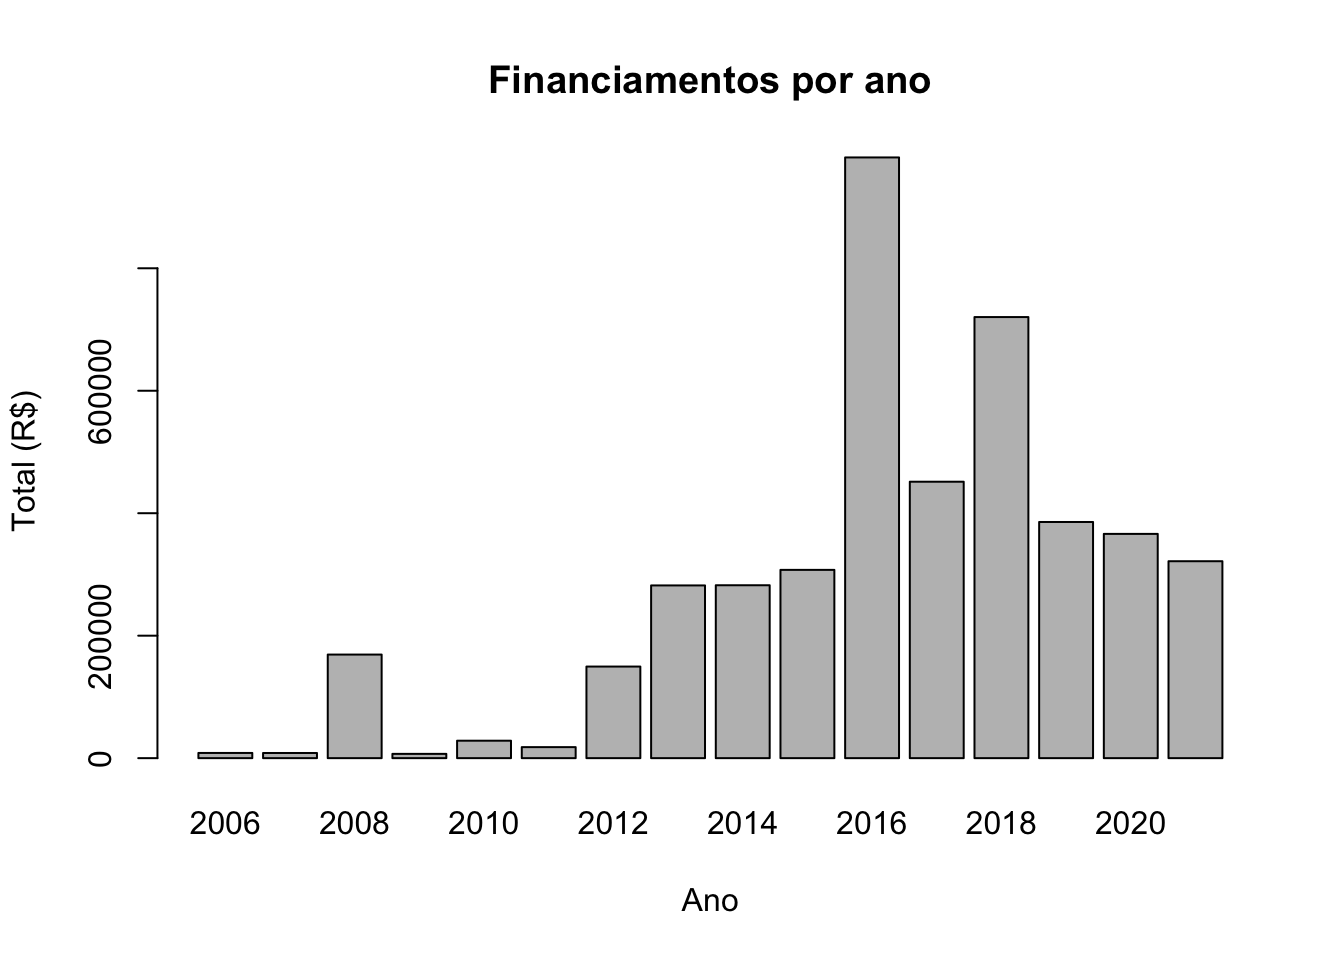
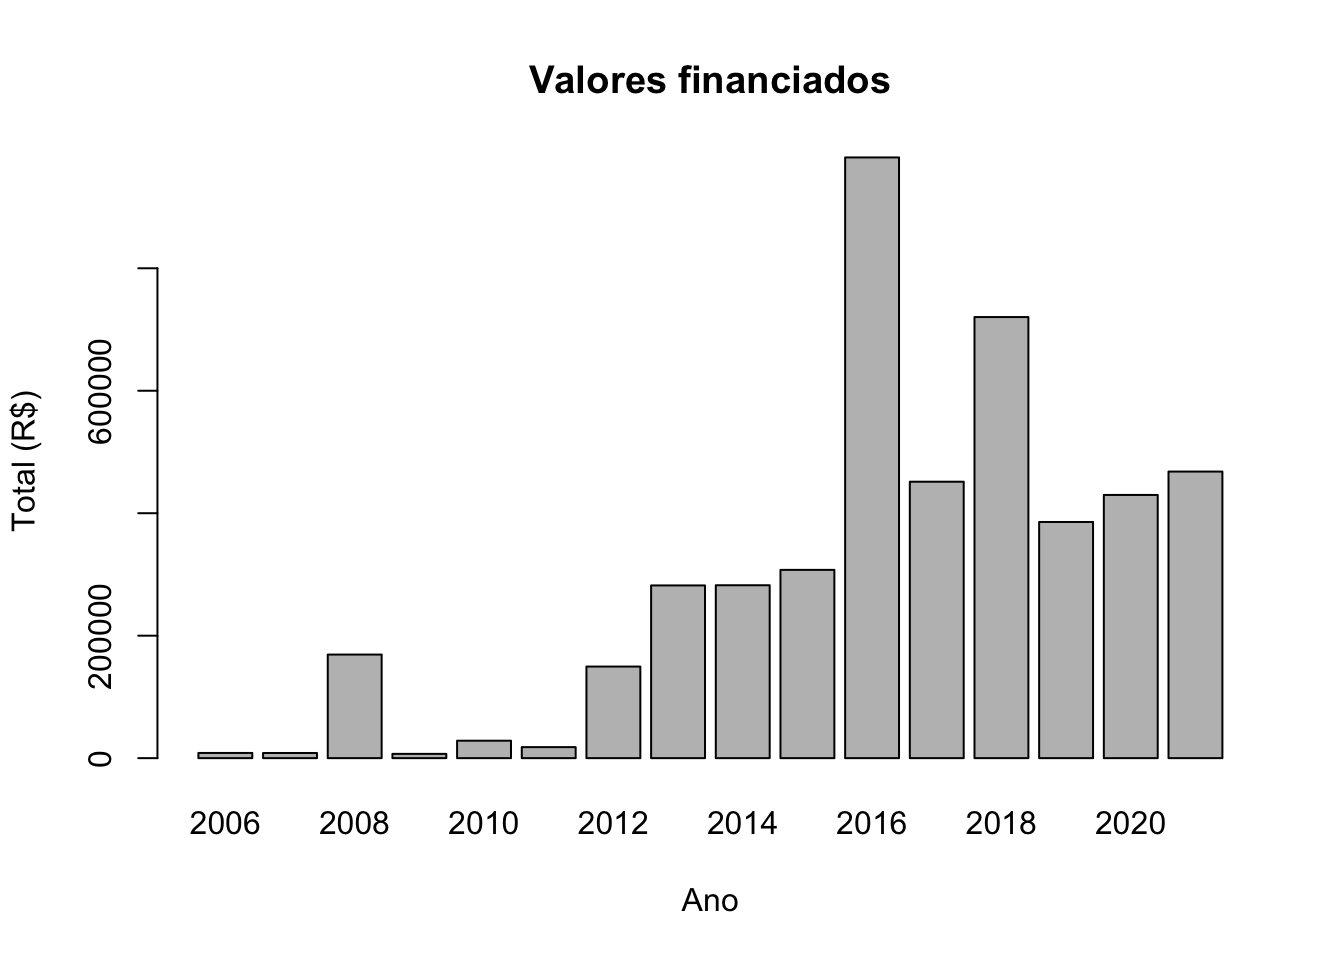
Add files via upload

Changed region(s): [[0.8125, 0.4688, 0.9375, 0.5938], [0.3438, 0.0625, 0.6875, 0.0938]]

diff --git a/programa.html b/programa.html
@@ -650,7 +650,7 @@ div.tocify {
   font-family: -apple-system, BlinkMacSystemFont, 'Segoe UI', Roboto, Oxygen, Ubuntu, Cantarell, 'Helvetica Neue', 'Fira Sans', 'Droid Sans', Arial, sans-serif;
 }
 
-#ucfkmmsitu .gt_table {
+#ktffsjhsst .gt_table {
   display: table;
   border-collapse: collapse;
   margin-left: auto;
@@ -675,7 +675,7 @@ div.tocify {
   border-left-color: #D3D3D3;
 }
 
-#ucfkmmsitu .gt_heading {
+#ktffsjhsst .gt_heading {
   background-color: #FFFFFF;
   text-align: center;
   border-bottom-color: #FFFFFF;
@@ -687,7 +687,7 @@ div.tocify {
   border-right-color: #D3D3D3;
 }
 
-#ucfkmmsitu .gt_title {
+#ktffsjhsst .gt_title {
   color: #333333;
   font-size: 125%;
   font-weight: initial;
@@ -697,7 +697,7 @@ div.tocify {
   border-bottom-width: 0;
 }
 
-#ucfkmmsitu .gt_subtitle {
+#ktffsjhsst .gt_subtitle {
   color: #333333;
   font-size: 85%;
   font-weight: initial;
@@ -707,13 +707,13 @@ div.tocify {
   border-top-width: 0;
 }
 
-#ucfkmmsitu .gt_bottom_border {
+#ktffsjhsst .gt_bottom_border {
   border-bottom-style: solid;
   border-bottom-width: 2px;
   border-bottom-color: #D3D3D3;
 }
 
-#ucfkmmsitu .gt_col_headings {
+#ktffsjhsst .gt_col_headings {
   border-top-style: solid;
   border-top-width: 2px;
   border-top-color: #D3D3D3;
@@ -728,7 +728,7 @@ div.tocify {
   border-right-color: #D3D3D3;
 }
 
-#ucfkmmsitu .gt_col_heading {
+#ktffsjhsst .gt_col_heading {
   color: #333333;
   background-color: #FFFFFF;
   font-size: 100%;
@@ -748,7 +748,7 @@ div.tocify {
   overflow-x: hidden;
 }
 
-#ucfkmmsitu .gt_column_spanner_outer {
+#ktffsjhsst .gt_column_spanner_outer {
   color: #333333;
   background-color: #FFFFFF;
   font-size: 100%;
@@ -760,15 +760,15 @@ div.tocify {
   padding-right: 4px;
 }
 
-#ucfkmmsitu .gt_column_spanner_outer:first-child {
+#ktffsjhsst .gt_column_spanner_outer:first-child {
   padding-left: 0;
 }
 
-#ucfkmmsitu .gt_column_spanner_outer:last-child {
+#ktffsjhsst .gt_column_spanner_outer:last-child {
   padding-right: 0;
 }
 
-#ucfkmmsitu .gt_column_spanner {
+#ktffsjhsst .gt_column_spanner {
   border-bottom-style: solid;
   border-bottom-width: 2px;
   border-bottom-color: #D3D3D3;
@@ -780,7 +780,7 @@ div.tocify {
   width: 100%;
 }
 
-#ucfkmmsitu .gt_group_heading {
+#ktffsjhsst .gt_group_heading {
   padding: 8px;
   color: #333333;
   background-color: #FFFFFF;
@@ -802,7 +802,7 @@ div.tocify {
   vertical-align: middle;
 }
 
-#ucfkmmsitu .gt_empty_group_heading {
+#ktffsjhsst .gt_empty_group_heading {
   padding: 0.5px;
   color: #333333;
   background-color: #FFFFFF;
@@ -817,15 +817,15 @@ div.tocify {
   vertical-align: middle;
 }
 
-#ucfkmmsitu .gt_from_md > :first-child {
+#ktffsjhsst .gt_from_md > :first-child {
   margin-top: 0;
 }
 
-#ucfkmmsitu .gt_from_md > :last-child {
+#ktffsjhsst .gt_from_md > :last-child {
   margin-bottom: 0;
 }
 
-#ucfkmmsitu .gt_row {
+#ktffsjhsst .gt_row {
   padding-top: 8px;
   padding-bottom: 8px;
   padding-left: 5px;
@@ -844,7 +844,7 @@ div.tocify {
   overflow-x: hidden;
 }
 
-#ucfkmmsitu .gt_stub {
+#ktffsjhsst .gt_stub {
   color: #333333;
   background-color: #FFFFFF;
   font-size: 100%;
@@ -856,7 +856,7 @@ div.tocify {
   padding-left: 12px;
 }
 
-#ucfkmmsitu .gt_summary_row {
+#ktffsjhsst .gt_summary_row {
   color: #333333;
   background-color: #FFFFFF;
   text-transform: inherit;
@@ -866,7 +866,7 @@ div.tocify {
   padding-right: 5px;
 }
 
-#ucfkmmsitu .gt_first_summary_row {
+#ktffsjhsst .gt_first_summary_row {
   padding-top: 8px;
   padding-bottom: 8px;
   padding-left: 5px;
@@ -876,7 +876,7 @@ div.tocify {
   border-top-color: #D3D3D3;
 }
 
-#ucfkmmsitu .gt_grand_summary_row {
+#ktffsjhsst .gt_grand_summary_row {
   color: #333333;
   background-color: #FFFFFF;
   text-transform: inherit;
@@ -886,7 +886,7 @@ div.tocify {
   padding-right: 5px;
 }
 
-#ucfkmmsitu .gt_first_grand_summary_row {
+#ktffsjhsst .gt_first_grand_summary_row {
   padding-top: 8px;
   padding-bottom: 8px;
   padding-left: 5px;
@@ -896,11 +896,11 @@ div.tocify {
   border-top-color: #D3D3D3;
 }
 
-#ucfkmmsitu .gt_striped {
+#ktffsjhsst .gt_striped {
   background-color: rgba(128, 128, 128, 0.05);
 }
 
-#ucfkmmsitu .gt_table_body {
+#ktffsjhsst .gt_table_body {
   border-top-style: solid;
   border-top-width: 2px;
   border-top-color: #D3D3D3;
@@ -909,7 +909,7 @@ div.tocify {
   border-bottom-color: #D3D3D3;
 }
 
-#ucfkmmsitu .gt_footnotes {
+#ktffsjhsst .gt_footnotes {
   color: #333333;
   background-color: #FFFFFF;
   border-bottom-style: none;
@@ -923,13 +923,13 @@ div.tocify {
   border-right-color: #D3D3D3;
 }
 
-#ucfkmmsitu .gt_footnote {
+#ktffsjhsst .gt_footnote {
   margin: 0px;
   font-size: 90%;
   padding: 4px;
 }
 
-#ucfkmmsitu .gt_sourcenotes {
+#ktffsjhsst .gt_sourcenotes {
   color: #333333;
   background-color: #FFFFFF;
   border-bottom-style: none;
@@ -943,46 +943,46 @@ div.tocify {
   border-right-color: #D3D3D3;
 }
 
-#ucfkmmsitu .gt_sourcenote {
+#ktffsjhsst .gt_sourcenote {
   font-size: 90%;
   padding: 4px;
 }
 
-#ucfkmmsitu .gt_left {
+#ktffsjhsst .gt_left {
   text-align: left;
 }
 
-#ucfkmmsitu .gt_center {
+#ktffsjhsst .gt_center {
   text-align: center;
 }
 
-#ucfkmmsitu .gt_right {
+#ktffsjhsst .gt_right {
   text-align: right;
   font-variant-numeric: tabular-nums;
 }
 
-#ucfkmmsitu .gt_font_normal {
+#ktffsjhsst .gt_font_normal {
   font-weight: normal;
 }
 
-#ucfkmmsitu .gt_font_bold {
+#ktffsjhsst .gt_font_bold {
   font-weight: bold;
 }
 
-#ucfkmmsitu .gt_font_italic {
+#ktffsjhsst .gt_font_italic {
   font-style: italic;
 }
 
-#ucfkmmsitu .gt_super {
+#ktffsjhsst .gt_super {
   font-size: 65%;
 }
 
-#ucfkmmsitu .gt_footnote_marks {
+#ktffsjhsst .gt_footnote_marks {
   font-style: italic;
   font-size: 65%;
 }
 </style>
-<div id="ucfkmmsitu" style="overflow-x:auto;overflow-y:auto;width:auto;height:auto;"><table class="gt_table">
+<div id="ktffsjhsst" style="overflow-x:auto;overflow-y:auto;width:auto;height:auto;"><table class="gt_table">
   
   <thead class="gt_col_headings">
     <tr>
@@ -1003,10 +1003,10 @@ div.tocify {
     </tr>
     <tr>
       <td class="gt_row gt_left" style="text-align: left; text-indent: 10px;">R$ sum</td>
-      <td class="gt_row gt_center">R$ 2,288,000.00</td>
+      <td class="gt_row gt_center">R$ 2,498,000.00</td>
       <td class="gt_row gt_center">R$ 283,623.18</td>
       <td class="gt_row gt_center">R$ 1,915,745.97</td>
-      <td class="gt_row gt_center">R$ 4,487,369.15</td>
+      <td class="gt_row gt_center">R$ 4,697,369.15</td>
     </tr>
     <tr>
       <td class="gt_row gt_left" style="text-align: left; text-indent: 10px;">Minimum</td>
@@ -1017,10 +1017,10 @@ div.tocify {
     </tr>
     <tr>
       <td class="gt_row gt_left" style="text-align: left; text-indent: 10px;">Maximum</td>
-      <td class="gt_row gt_center">321,600.00</td>
+      <td class="gt_row gt_center">468,000.00</td>
       <td class="gt_row gt_center">113,823.18</td>
       <td class="gt_row gt_center">460,670.00</td>
-      <td class="gt_row gt_center">460,670.00</td>
+      <td class="gt_row gt_center">468,000.00</td>
     </tr>
     <tr>
       <td class="gt_row gt_left" style="font-weight: bold;">Programa</td>
@@ -1173,6 +1173,8 @@ div.tocify {
   </tfoot>
 </table></div>
 <p><img src="programa_files/figure-html/unnamed-chunk-6-1.png" width="672" style="display: block; margin: auto;" /></p>
+<p><img src="programa_files/figure-html/unnamed-chunk-6-2.png" width="672" style="display: block; margin: auto;" /></p>
+<p><img src="programa_files/figure-html/unnamed-chunk-6-3.png" width="672" style="display: block; margin: auto;" /></p>
 <p><br> <br></p>
 </div>
 <div id="breve-histórico" class="section level2">
